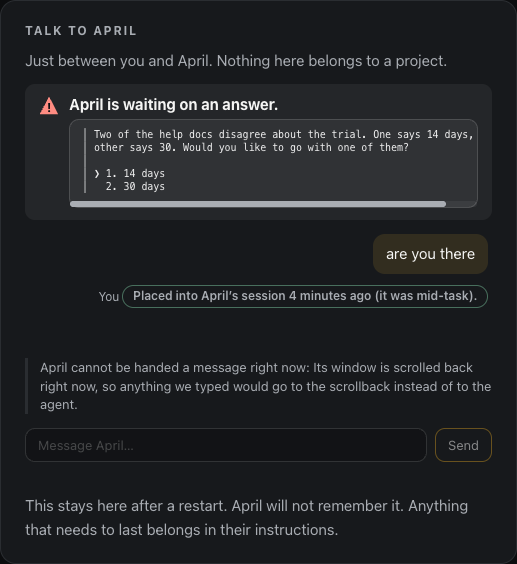
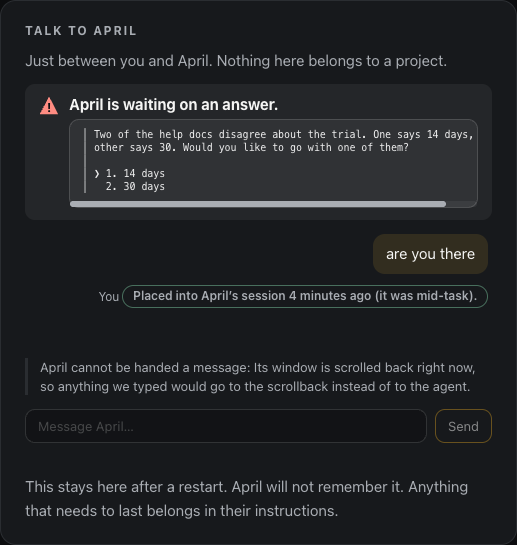
answer-panel -- two sentences that said the same thing twice
Both from the same round's nits, both about a claim being made twice.

web/index.html: the closed-composer notice wrapped every reason in "cannot be
handed a message RIGHT NOW", and both of addressable's reachable reasons end
with a "right now" of their own. So the real sentence read "April cannot be
handed a message right now: Its window is scrolled back right now, so...". The
time phrase belongs to the reason, where it is true; the wrapper states the
consequence.

server.test.js: the comment over the answer-panel pins said the render is
checked "by drawing all eight states in both themes". It drew eleven when that
was written and thirteen now. The count is gone rather than corrected, which is
what docs/browser-checks/README.md argues for two files away: one moving fact
written in two places is a fact that will disagree with itself.

994 tests pass, browser check green, screenshots regenerated.

diff --git a/server.test.js b/server.test.js
@@ -6696,8 +6696,11 @@ test("the removal announcement is her sentence, on both verdict arms", () => {
 /* ---------------------------------------------------------------------------
  * answer-panel: the agent page's own thread, its composer, and the buttons
  * above it. Text pins only -- these catch a DELETION, not a rendering. The
- * render itself is checked by drawing all eight states in both themes and
- * measuring in the page (scrollWidth/clientWidth for overflow, computed
+ * render itself is checked by `docs/browser-checks/render-talk.js`, which draws
+ * every state this branch defines in both themes and measures in the page
+ * (the count is deliberately not quoted here: it said "eight" while the file
+ * drew eleven and then thirteen, which is one moving fact written in two
+ * places, and this directory's own README explains why not to) (scrollWidth/clientWidth for overflow, computed
  * background for the transparent-panel class, elementFromPoint for what is
  * actually on top). Checks were green through three broken layouts on 18e;
  * text cannot see that class of defect and these do not claim to.

diff --git a/web/index.html b/web/index.html
@@ -6740,7 +6740,14 @@ async function paintTalk(sessionName, agentName) {
        would be run as a command) from one scrolled back (it would go to the
        scrollback). Both mean not delivered; only one of them could execute
        something. */
-    off.textContent = name + ' cannot be handed a message right now: '
+    /* ⚠ NO "right now" HERE. Both of `addressable`'s reachable reasons end
+       with one of their own ("its window is scrolled back RIGHT NOW", "there
+       is no Claude running in its window RIGHT NOW"), so the wrapper's copy
+       made every real sentence say it twice: "cannot be handed a message right
+       now: Its window is scrolled back right now". The time phrase belongs to
+       the reason, which is where it is true; the wrapper states the
+       consequence. */
+    off.textContent = name + ' cannot be handed a message: '
       + pjSentence(body.presenceBecause || 'we cannot reach its window');
     off.hidden = false;
   } else if (body.presence === 'unsure') {
